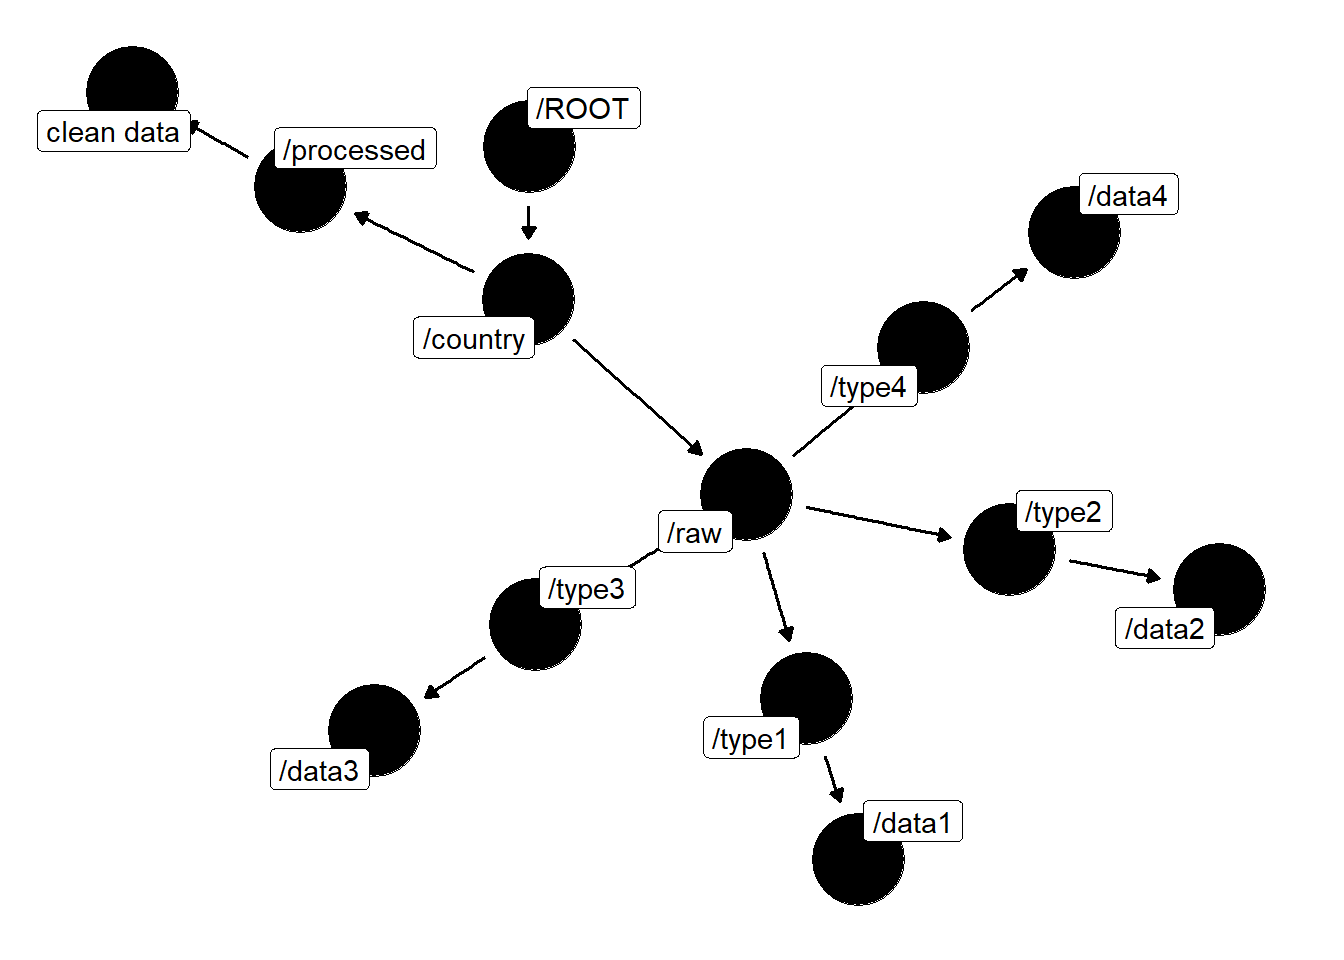
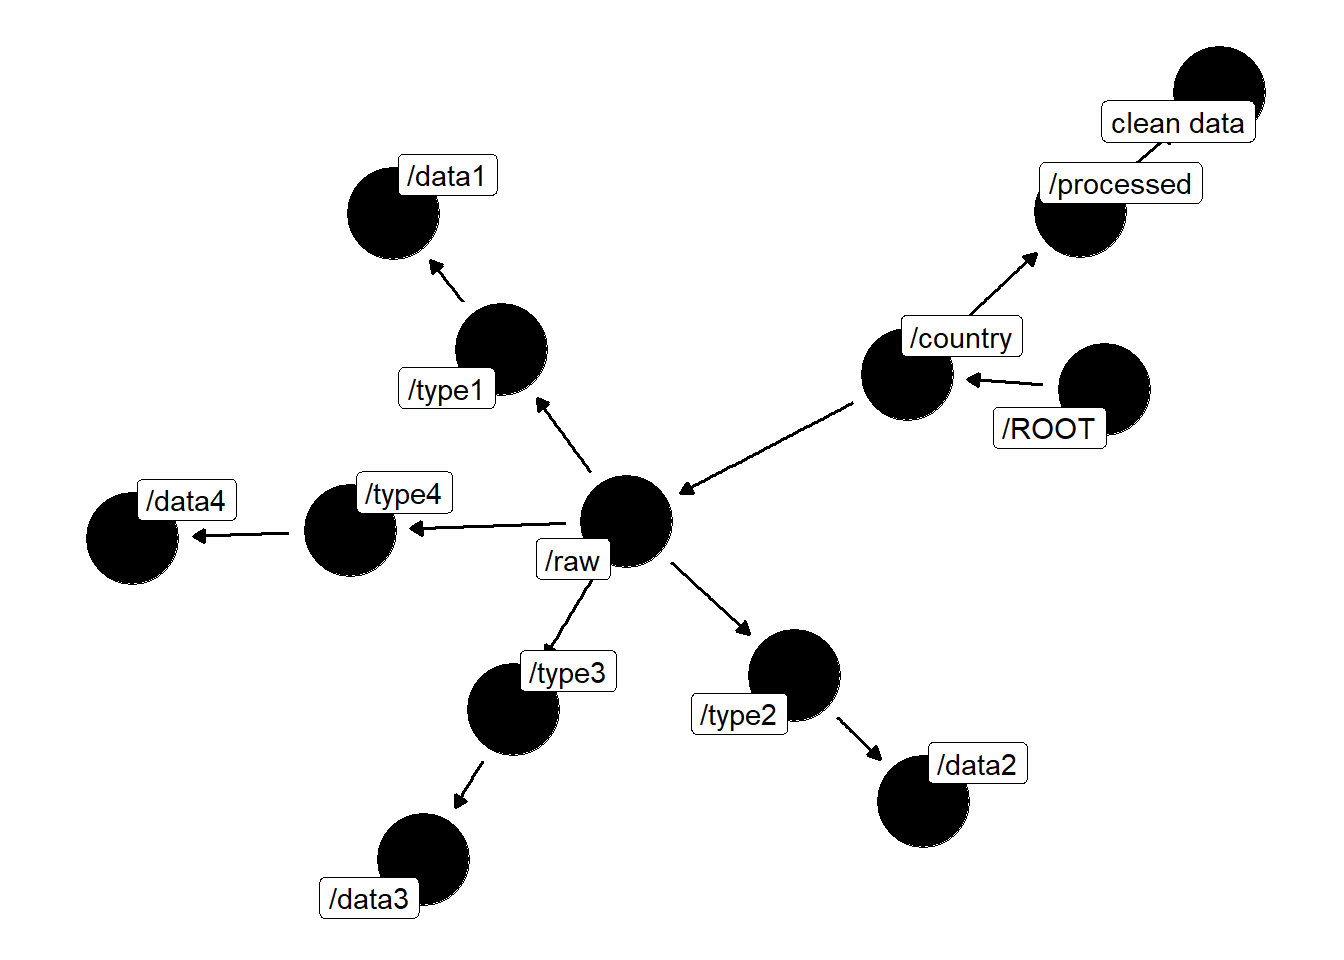
write post on directories

diff --git a/content/post/2021-12-13-directories-org/directories.html b/content/post/2021-12-13-directories-org/directories.html
@@ -36,10 +36,44 @@ draft: true
 <h2>From wardrobes to computers</h2>
 <p>Above I rambled about how organization - situating the right tools in the right place for their easy use - is key to simplifying one’s life. It’s also key to getting things done efficiently on your computer. Say you are working on a new project for work. In my case,this usually involves the accumulation of code, documents, data, and many different sub-directories over time. In the last years, I have found that chaos is almost a certain outcome if I let this folder and file structure grow “organically” - as I go that is.</p>
 <p>The worst part about this, other than confusing the hell out of me, is that it makes automation a hustle. You cannot easily loop through different folders, for instance, if the files in them are not named consistently or if they are spread across different sub directories in an arbitrary way. Why then have I often ended up in situation like this? Frankly, because building a good folder structure for a project ex ante can, itself, be time consuming. What follows is an example of such a situation, and my attempt to solve it programmatically.</p>
-<p>Recently, I had to save, clean, and re-save household data for seventy different countries. For each of them, I saved four different kinds of datasets for all the years available. What I was aiming for looked a lot like this graph. First, find the <code>\ROOT</code> folder. Then follow the arrows to explore the file structure.</p>
-<p><img src="/post/2021-12-13-directories-org/directories_files/figure-html/unnamed-chunk-1-1.png" width="672" /></p>
-<p>The <code>/ROOT</code> folder includes a <code>ROOT/country</code> folder. In it are, in turn, two folders: <code>raw</code> and <code>processed</code>. <code>ROOT/country/raw</code> is where the original, unprocessed data goes initially. It is itself partitioned into folders, one for each type of data. The data wrangling and cleaning script(s) take data from there and output the processed datasets to <code>ROOT/country/processed</code>. This is the clean data that enters my analysis.</p>
+<p>Recently, I had to save, clean, and re-save household data for seventy different countries. For each of them, I saved four different kinds of datasets for all the years available. What I was aiming for looked a lot like this graph. First, find the <code>ROOT/</code> folder. Then follow the arrows to explore the file structure.</p>
+<div class="figure"><span style="display:block;" id="fig:example-structure"></span>
+<img src="/post/2021-12-13-directories-org/directories_files/figure-html/example-structure-1.png" alt="An example of a project folder structure." width="672" />
+<p class="caption">
+Figure 1: An example of a project folder structure.
+</p>
+</div>
+<p>The <code>ROOT/</code> folder includes a <code>ROOT/country/</code> folder. In it are, in turn, two folders: <code>raw</code> and <code>processed</code>. <code>ROOT/country/raw/</code> is where the original, unprocessed data goes initially. It is itself partitioned into folders, one for each of four types of data. The data wrangling and cleaning script(s) take data from there and output the processed datasets to <code>ROOT/country/processed/</code>, according again to the data types (1 thru 4). This is the clean data that enters my analysis.</p>
 </div>
 <div id="can-we-bash-it-already" class="section level2">
 <h2>Can we bash it, already?</h2>
+<p>Alright, to start with you need to know that the bash command to make new directories is conveniently called <code>mkdir</code>. To create a new folder called <code>things</code> on your desktop is as easy as writing…</p>
+<pre class="bash"><code>cd desktop
+mkdir things</code></pre>
+<p>To create a subdirectory inside <code>things/</code> - let’s call it <code>things/stuff/</code> - we could use the same principle: just <code>cd</code> into <code>things/</code> and create the new sub-directory.</p>
+<pre class="bash"><code>cd desktop
+mkdir things
+cd things
+mkdir stuff</code></pre>
+<p>This is an example of the ad-hoc approach to creating a file system; everytime I feel like I need a subfolder inside a directory, I just go there, create it and place files in it. But this becomes cumbersome very fast, especially because one has to <code>cd</code> in and out directories all the time. Thankfully, there is a way to nest folders inside the mkdir command. The following lines create the same directory <code>desktop/things/stuff/</code> as before, but this time in one line using the flag <code>-p</code> to allow for a nested structure.</p>
+<pre class="bash"><code>cd desktop
+mkdir -p things/stuff</code></pre>
+<p>Next, let’s say that we want to divide our belongings into <code>some things</code> and <code>other things</code>, both of which consist of <code>stuff</code> and <code>more stuff</code>. For this, we use curly braces. Also make sure to use string delimiters (either <code>'</code> or <code>"</code>) around directory names that include spaces.</p>
+<pre class="bash"><code>cd desktop
+mkdir -p {&#39;some things&#39;,&#39;other things&#39;}/{stuff,&#39;more stuff&#39;}</code></pre>
+<p>We just created a nested folder structure with multiple folders at each level. To see how truly powerful this simple command is, let’s finally create the project folder structure from figure <a href="#fig:example-structure">1</a>. To up the complexity a little, the code below creates not one, not two…but <em>fifty-five</em> such country folders (named according to iso alpha 2 international country codes) inside the <code>\ROOT</code> directory.</p>
+<pre class="bash"><code>cd ROOT     # go to directory
+mkdir -p {al,am,bd,bj,bo,bf,bi,kh,ci,cm,cf,km,cg,eg,et,ga,gm,gh,gt,gn,gy,ht,hn,jo,kz,ke,kg,ls,lb,mg,mw,mv,ml,md,ma,mz,np,ni,ne,ng,pk,py,pe,rw,st,sn,sl,tz,tl,tg,tr,ug,ua,ye,zm,\}/{processed,raw}/{type_1,type_2,type_3,type_4}</code></pre>
+<p>This works but it is rather messy to look at. If you need to access and rerun this several times, it might be wise to write a shell script and use <code>\</code> to allow commands to run over multiple lines in bash. Then you can also use <code>#</code> to add comments to your code.</p>
+<pre class="bash"><code>cd ROOT     # go to directory
+mkdir -p {\     # initiate mkdir
+al,am,bd,bj,bo,bf,bi,kh,ci,cm,cf,\        # add country folders 
+km,cg,eg,et,ga,gm,gh,gt,gn,gy,ht,\        
+hn,jo,kz,ke,kg,ls,lb,mg,mw,mv,ml,\
+md,ma,mz,np,ni,ne,ng,pk,py,pe,rw,\
+st,sn,sl,tz,tl,tg,tr,ug,ua,ye,zm,\
+}\
+/{processed,raw}\      # create processed and raw sub-folders inside each country
+/{type_1,type_2,type_3,type_4} # divide them into data types</code></pre>
+<p>Coupled with a little planning ahead, you can now create usable nested project directories in the blink of an eye. Integrating a script like this to your computing routines can boost your productivity and makes it easier for others, who are unfamiliar with your folder structures, to replicate your work.</p>
 </div>
